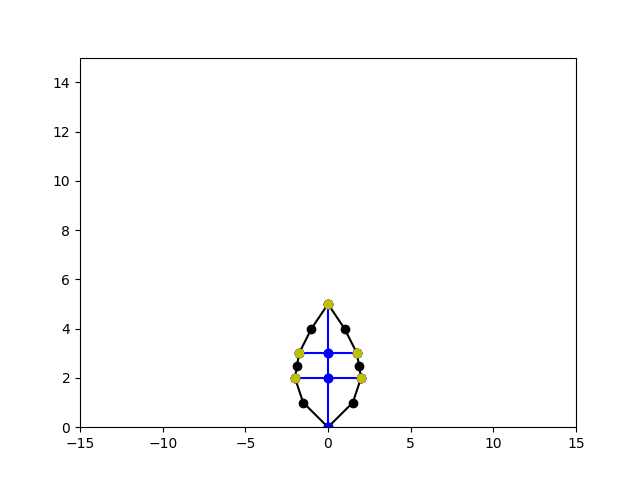
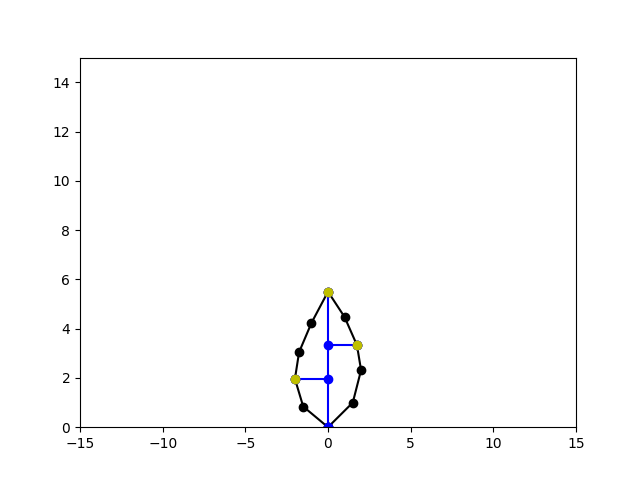
distance and directional based growth completed!

Changed region(s): [[0.4375, 0.6562, 0.5938, 0.875], [0.5, 0.5938, 0.5312, 0.6562]]

diff --git a/Prototype1/growth.py b/Prototype1/growth.py
@@ -45,16 +45,12 @@ def bounding_distances(list_of_pts, left_pt, right_pt):
 
 def interpolate_pts(pt_A, pt_B, leaf):
     """Given two positions a new point is created between these points by linear interpolation"""
-    print(pt_A)
-    print(pt_B)
     x = [pt_A.pos[0], pt_B.pos[0]]
     y = [pt_A.pos[1], pt_B.pos[1]]
-    print(f"x: {x} y: {y}")
 
     xnew = np.linspace(x[0], x[1], num=3, endpoint=True)
     f = interp1d(x, y, kind='linear')
     ynew = f(xnew)
-    print(f"xnew: {xnew} ynew: {ynew}")
     new_pt = Point([xnew[1], ynew[1]], 0, leaf.primordium_vein, 0, 0)
     leaf.margin.insert_point(new_pt)
 
@@ -67,7 +63,6 @@ def initialize_growth(leaf):
         prev_i = 0
         for i in range(1, len(cp_index)):
             if (cp_index[i] - cp_index[prev_i]) <= 1:
-                print(f"previ{cp_index[prev_i]} i{cp_index[i]}")
                 interpolate_pts(leaf.margin.points[cp_index[prev_i]], leaf.margin.points[cp_index[i]], leaf)
                 # recalculate cp_indicators
                 cp_indicators, cp_index = leaf.margin.get_cp_indicators()
@@ -80,9 +75,9 @@ def hard_coded_cp_addition(leaf):
     """create new cp for vein insertion this is temporarily hard coded for poc,
     later done dynamically based on threshold during growth"""
     leaf.margin.points[2].is_cp = 1
-    leaf.margin.points[3].is_cp = 1
+    # leaf.margin.points[3].is_cp = 1
     leaf.margin.points[7].is_cp = 1
-    leaf.margin.points[8].is_cp = 1
+    # leaf.margin.points[8].is_cp = 1
     leaf.margin.check_conv_points()
 
 
@@ -120,20 +115,13 @@ def vein_addition(leaf, vein):
             leaf.add_vein(new_vein)
 
 
-def calculate_gr(prev_data, next_data, gr):
-    # gr_pts = np.zeros(prev.size())
-    # for prev and next
-    # for i in [prev_data, next_data]:
-    # temp_dist = i[0]
-    # temp_dir = i[1]
+def calculate_gr(dist, dir, gr):
+    """multiply direction * gr * distance"""
 
-    # TODO ! multiply direction * gr * normalized distance in correct math
-    # next_growth = temp_dist * gr * temp_dir
-
-    # calculate total
-    # gr_pts = gr_pts + next_growth
-
-    return 1
+    # TODO ! Normalize distance from 0 to 1 ! if necessary for precision later
+    temp_growth = (gr * dir)/dist
+    # print(f"dist { dist} temp_growth: {temp_growth}")
+    return temp_growth
 
 
 def expand_veins(leaf, gr):
@@ -141,32 +129,22 @@ def expand_veins(leaf, gr):
     by a growth rate (gr)"""
     cp_indicators, cp_index = initialize_growth(leaf)
     prev_cp_i = 0
-    gr_total = np.zeros(len(cp_indicators))
+    gr_total = np.zeros((len(cp_indicators),2))
     # maybe change to 0 later or just to a minimal value instead?
     prev_vein_dir = -1 * normalize_vec(leaf.primordium_vein.get_vector())
+    # print(leaf.margin.print_points())
     for i in range(1, len(cp_indicators)):
-        if cp_indicators[i] == 1:
-
-            # when next cp is found define next margin part
-            if i == cp_index[-1]:  # if the last Cp is find connect basepoint as next cp
+        if cp_indicators[i] == 1 or cp_index == []:
+            if cp_index == []:
                 next_cp_i = 0
-                print(f"leaf.margin.points[{prev_cp_i + 1}:{next_cp_i}]")
-                margin_part = leaf.margin.points[(prev_cp_i + 1):]
+                margin_part = leaf.margin.points[(prev_cp_i + 1):(len(cp_indicators)-1)]
             else:
                 next_cp_i = cp_index[0]
-                print(f"leaf.margin.points[{prev_cp_i + 1}:{next_cp_i}]")
-                if (prev_cp_i + 1) == next_cp_i:
-                    margin_part = [leaf.margin.points[next_cp_i]]
-                else:
-                    print(f"leaf.margin.points[{prev_cp_i + 1}:{next_cp_i}]")
-                    margin_part = leaf.margin.points[(prev_cp_i + 1):next_cp_i]
-                # print(f"margin_part: {margin_part}")
-            # print(f"i: {i}, next_cp_i = {cp_index[0]}")
-
-            prev_cp = leaf.margin.points[prev_cp_i]
-            next_cp = leaf.margin.points[next_cp_i]
+                margin_part = leaf.margin.points[(prev_cp_i + 1):next_cp_i]
 
             # only feed positions left and right of cp to the distance function
+            prev_cp = leaf.margin.points[prev_cp_i]
+            next_cp = leaf.margin.points[next_cp_i]
             prev_dist, next_dist = bounding_distances(margin_part, prev_cp, next_cp)
 
             # get growth direction of new cp
@@ -174,14 +152,19 @@ def expand_veins(leaf, gr):
             next_vein_dir = normalize_vec(exp_vein.get_vector())
 
             # add to array of gr values
-            prev_data = [prev_dist, prev_vein_dir]
-            next_data = [next_dist, next_vein_dir]
-            gr_total[(prev_cp_i + 1):next_cp_i] = calculate_gr(prev_data, next_data, gr)
-            print(f" gr_total[{prev_cp_i + 1}:{next_cp_i}]: {gr_total}")
+            temp_prev = calculate_gr(prev_dist, prev_vein_dir, gr)
+            temp_next = calculate_gr(next_dist, next_vein_dir, gr)
+            if cp_index == []:
+                gr_total[(prev_cp_i + 1):len(cp_indicators)-1] = temp_next + temp_prev
+                leaf.margin.grow(gr_total)
+                return 0
+            else:
+                gr_total[(prev_cp_i + 1):next_cp_i] = temp_next + temp_prev
+                gr_total[next_cp_i] = np.multiply(next_vein_dir, gr)
+                cp_index = cp_index[1:]
+            # print(f" gr_total[{prev_cp_i + 1}:{next_cp_i}]: {gr_total}")
+
             # move margin for next iteration
-            cp_index = cp_index[1:]
-            # print(f"cp_index: {cp_index}")
             prev_cp_i = next_cp_i
             prev_vein_dir = next_vein_dir
-
-    # leaf.margin.grow(gr_total)
+    return 1

diff --git a/Prototype1/Main.py b/Prototype1/Main.py
@@ -5,12 +5,13 @@ import matplotlib.pyplot as plt
 
 
 # adapted from Runions et al. 2017 approach for leaf development
-STEPS = 2
+STEPS = 10
 LEAF_PATH = "../img/plot_data/"
 BASE_NAME = "leaf_"
 def main():
 
     leaf = initialize_default_leaf()
+    vis.plot_leaf(leaf, 15, LEAF_PATH, BASE_NAME, 0)
     for i in range(STEPS):
         # growstep driven by expansion of veins
         expand_veins(leaf, 0.5)
@@ -24,7 +25,7 @@ def main():
         vein_addition(leaf, leaf.primordium_vein)
 
         # plot leaf
-        vis.plot_leaf(leaf, 15, LEAF_PATH, BASE_NAME, i)
+        vis.plot_leaf(leaf, 15, LEAF_PATH, BASE_NAME, i+1)
 
 
 if __name__ == "__main__":

diff --git a/Prototype1/leafstructure.py b/Prototype1/leafstructure.py
@@ -161,6 +161,12 @@ class Margin(PointCollection):
 
         return cp_indicators, cp_index
 
+    def grow(self, gr_total):
+        """Adds the growth array to the current margin positions"""
+        for i in range(len(gr_total)):
+            self.points[i].pos += gr_total[i]
+
+
 class Leaf:
     def __init__(self, base_point, primordium_vein, margin, all_veins):
         self.base_point = base_point

diff --git a/Prototype1/testing_functionality.py b/Prototype1/testing_functionality.py
@@ -19,6 +19,7 @@ y = np.cos(-x**2/9.0)
 
 
 leaf = initialize_default_leaf()
+print(leaf.margin)
 points_x, points_y, _ = leaf.margin.get_points_pos()
 
 left_point = 3
